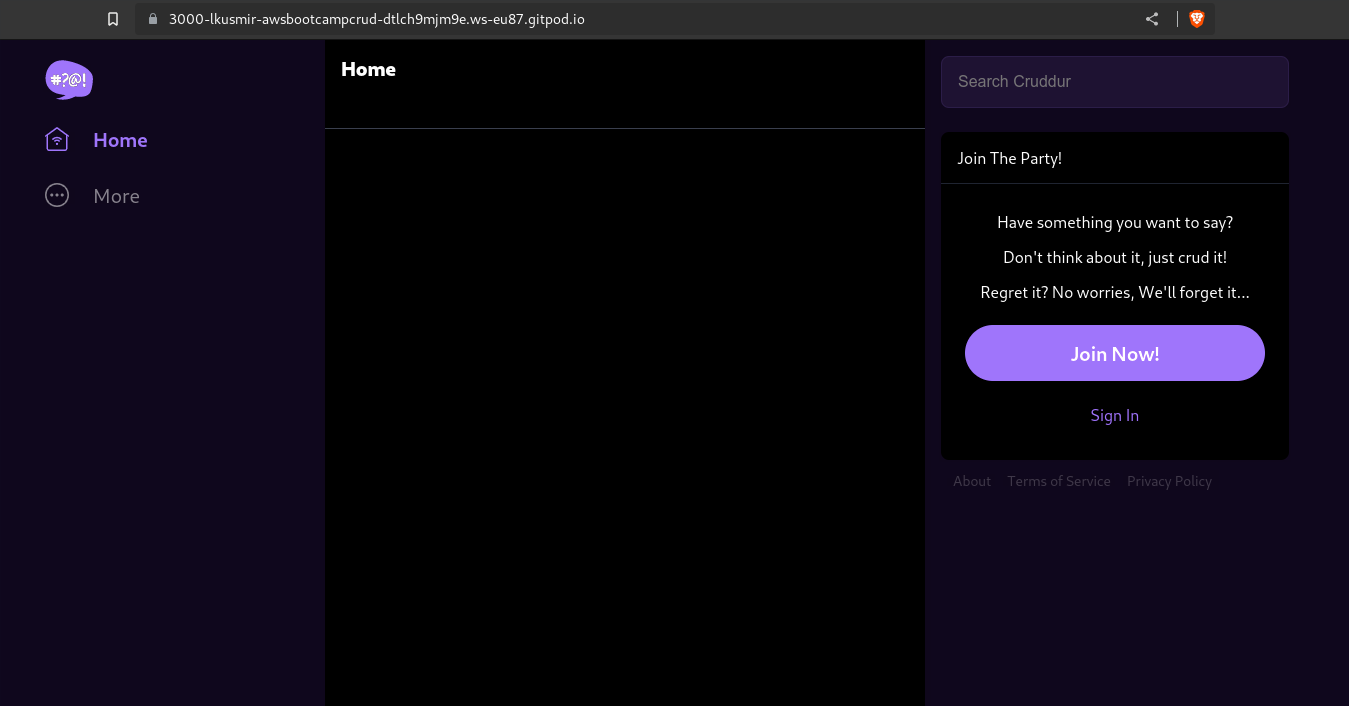
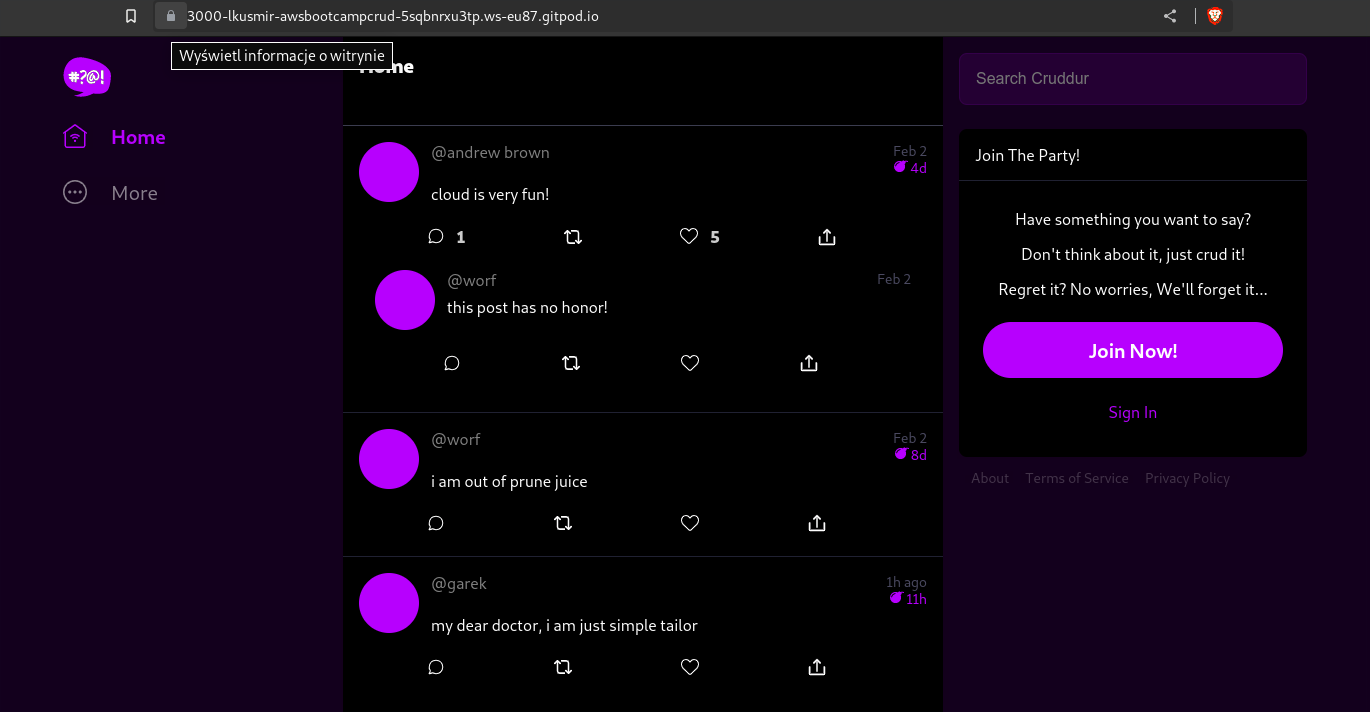
proper sshot

diff --git a/journal/week1.md b/journal/week1.md
@@ -20,8 +20,8 @@ Shall we go with [quay.io too](https://docs.quay.io/solution/getting-started.htm
 
 5. Research best practices of Dockerfile and attempt to implement it in your Dockerfile
 
-* commands kolejnosc matters
-* dont' do root - rootless is the new black
+* commands order matters
+* don't do root - rootless is the new black
 * use explicit versions
 * keep it small
 
@@ -155,6 +155,8 @@ docker-compose -f "docker-compose.yml" up -d --build
 
 ![app_running_on_gitpod](./img/09.png)
 *Application running on GitPod*
+
+**WARNING:** Note it was initally running without frontend-backend connection due to typo in `docker-compose.yml`. Fixed.
 
 ```bash
 $ curl https://3000-lkusmir-awsbootcampcrud-dtlch9mjm9e.ws-eu87.gitpod.io/
